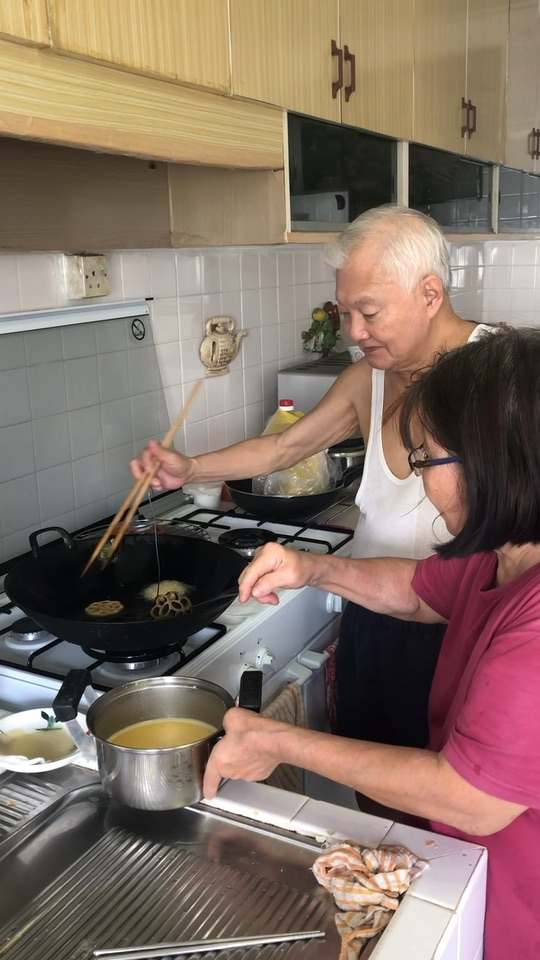
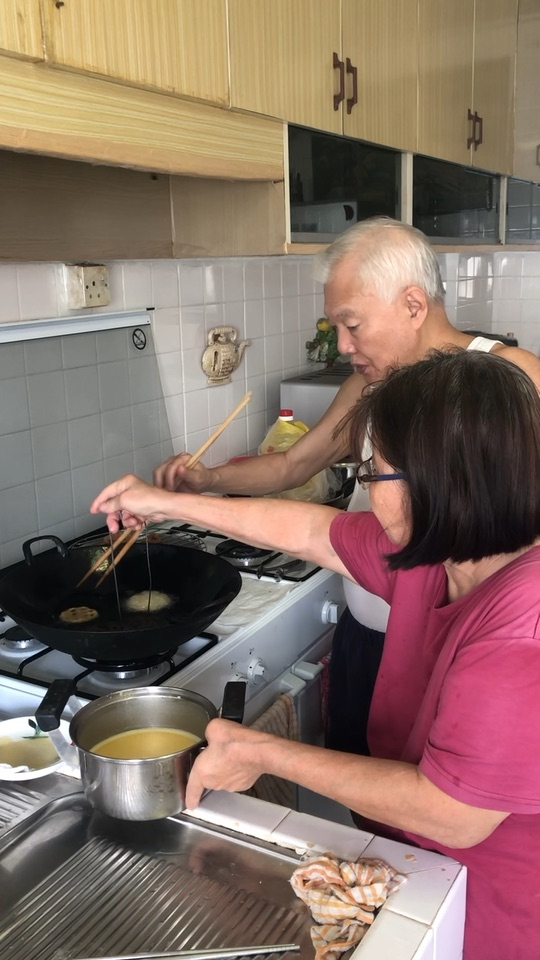
Fried Honeycomb: video stills match the recipe form; clip names and note

diff --git a/tools/video-still.swift b/tools/video-still.swift
@@ -1,0 +1,31 @@
+// One frame from a video as a JPEG, up to 960px, for build-seed.py's posters.
+// Usage: swift tools/video-still.swift <video> <seconds> <out.jpg>
+// Same moment the page uses for its own stills (1s in, or a quarter of the
+// way through a short clip), so the form and the gallery show the same frame.
+import AVFoundation
+import AppKit
+
+let args = CommandLine.arguments
+let asset = AVURLAsset(url: URL(fileURLWithPath: args[1]))
+let generator = AVAssetImageGenerator(asset: asset)
+generator.appliesPreferredTrackTransform = true
+generator.requestedTimeToleranceBefore = .zero
+generator.requestedTimeToleranceAfter = .zero
+generator.maximumSize = CGSize(width: 960, height: 960)
+
+let done = DispatchSemaphore(value: 0)
+var failed = false
+Task {
+  do {
+    let duration = try await asset.load(.duration).seconds
+    let seconds = min(Double(args[2]) ?? 1, duration / 4)
+    let (image, _) = try await generator.image(at: CMTime(seconds: seconds, preferredTimescale: 600))
+    let jpeg = NSBitmapImageRep(cgImage: image).representation(using: .jpeg, properties: [.compressionFactor: 0.82])!
+    try jpeg.write(to: URL(fileURLWithPath: args[3]))
+  } catch {
+    failed = true
+  }
+  done.signal()
+}
+done.wait()
+exit(failed ? 1 : 0)

diff --git a/script.js b/script.js
@@ -2231,11 +2231,13 @@ async function mediaNode(item, alt, { playable = false, large = false } = {}) {
       return el('video', { src: mediaSrc(item), controls: true, playsinline: true, preload: 'metadata' });
     }
 
-    /* Built-in videos ship with a poster; don't download and decode the
-       whole video just to make a card-sized still. (From Leonard.) */
+    /* The same still as the recipe form: a frame from the video this
+       browser holds, if it holds one. Otherwise the poster built-in videos
+       ship with (taken from the same moment), so the whole video isn't
+       downloaded just to make a card-sized still. (Poster from Leonard.) */
     const poster = safeMediaUrl(item.poster);
-    const frame = poster ? null : await thumbBlobFor(item);
-    const still = poster || (frame ? mediaUrl(frame) : null);
+    const frame = item.blob ? await thumbBlobFor(item) : null;
+    const still = frame ? mediaUrl(frame) : poster;
     const inner = still
       ? fallBackToHeldCopy(el('img', { src: still, alt, loading: 'lazy', decoding: 'async' }), item)
       : el('video', { src: mediaSrc(item), muted: true, playsinline: true, preload: 'metadata' });

diff --git a/recipes-seed.js b/recipes-seed.js
@@ -243,8 +243,8 @@ const SEED_RECIPES = [
         "poster": "./media/fried-honeycomb-3-poster.jpg",
         "id": "fried-honeycomb-3",
         "type": "video",
-        "name": "Frying in progress",
-        "description": "",
+        "name": "Metal mould dip in batter",
+        "description": "Allow the batter to stick to the mould and fry it in hot oil.",
         "src": "./media/fried-honeycomb-3.mp4"
       },
       {
@@ -259,7 +259,7 @@ const SEED_RECIPES = [
         "poster": "./media/fried-honeycomb-5-poster.jpg",
         "id": "fried-honeycomb-5",
         "type": "video",
-        "name": "Frying in progress",
+        "name": "Flipping the honeycomb",
         "description": "",
         "src": "./media/fried-honeycomb-5.mp4"
       },
@@ -267,7 +267,7 @@ const SEED_RECIPES = [
         "poster": "./media/fried-honeycomb-6-poster.jpg",
         "id": "fried-honeycomb-6",
         "type": "video",
-        "name": "Mum teaching papa on the tips for making fried honeycomb",
+        "name": "Mum and Papa working together",
         "description": "",
         "src": "./media/fried-honeycomb-6.mp4"
       },

diff --git a/index.html b/index.html
@@ -8,7 +8,7 @@
   <link rel="preconnect" href="https://fonts.googleapis.com">
   <link rel="preconnect" href="https://fonts.gstatic.com" crossorigin>
   <link href="https://fonts.googleapis.com/css2?family=Noto+Serif+SC:wght@400;500;600;700&family=Caveat:wght@500;700&display=swap" rel="stylesheet">
-  <link rel="stylesheet" href="./style.css?v=202610111230">
+  <link rel="stylesheet" href="./style.css?v=202610111251">
 </head>
 <body>
 
@@ -243,7 +243,7 @@
   <!-- Universal Kueh Machine account. Mei Jun's editable recipes and media
        intentionally remain browser-local, as described by the backup UI. -->
   <script src="/shared/account-widget.js" data-accent-color="#b7472a"></script>
-  <script src="./recipes-seed.js?v=202610111230"></script>
-  <script src="./script.js?v=202610111230"></script>
+  <script src="./recipes-seed.js?v=202610111251"></script>
+  <script src="./script.js?v=202610111251"></script>
 </body>
 </html>

diff --git a/tools/build-seed.py b/tools/build-seed.py
@@ -38,7 +38,16 @@ AUDIO_EXT = {
 
 
 def make_poster(video_path, out_name):
-    """Grab a still from a video with Quick Look, so cards have something to show."""
+    """A still for the cards: the frame 1 second in, the same one the page
+    takes for its own stills, so the gallery and the recipe form match.
+    Falls back to Quick Look's choice of frame if Swift isn't available."""
+    try:
+        subprocess.run(['swift', os.path.join(ROOT, 'tools', 'video-still.swift'), video_path, '1',
+                        os.path.join(MEDIA_DIR, out_name)],
+                       check=True, stdout=subprocess.DEVNULL, stderr=subprocess.DEVNULL)
+        return out_name
+    except (subprocess.CalledProcessError, FileNotFoundError):
+        pass
     tmp_dir = os.path.join(MEDIA_DIR, '.posters')
     os.makedirs(tmp_dir, exist_ok=True)
     try:
